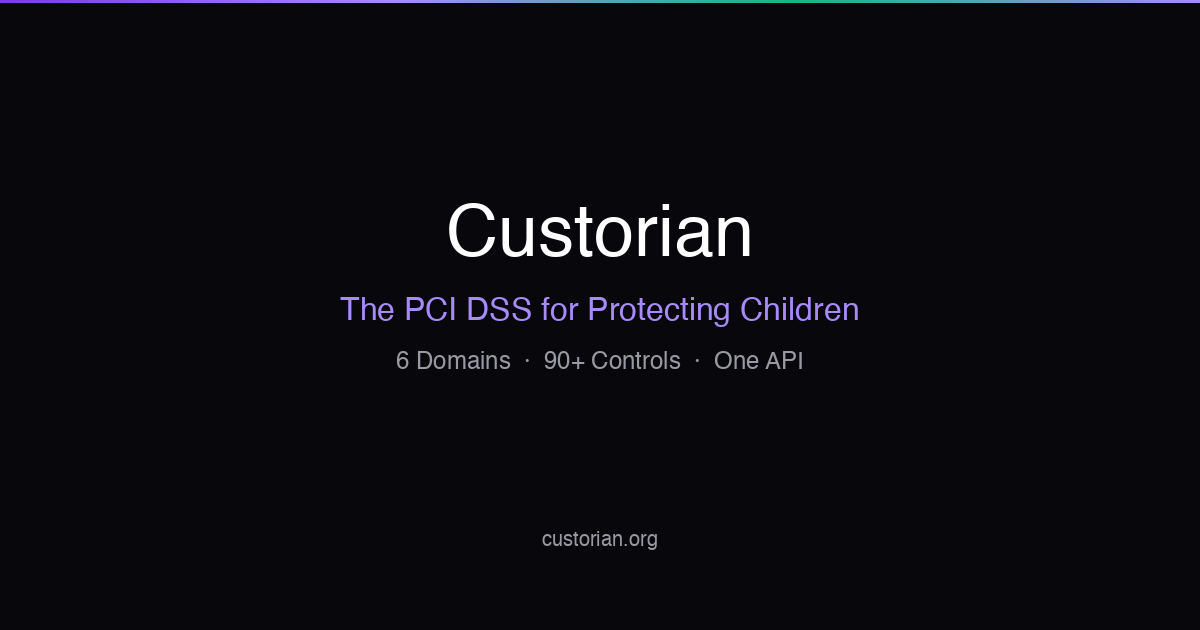
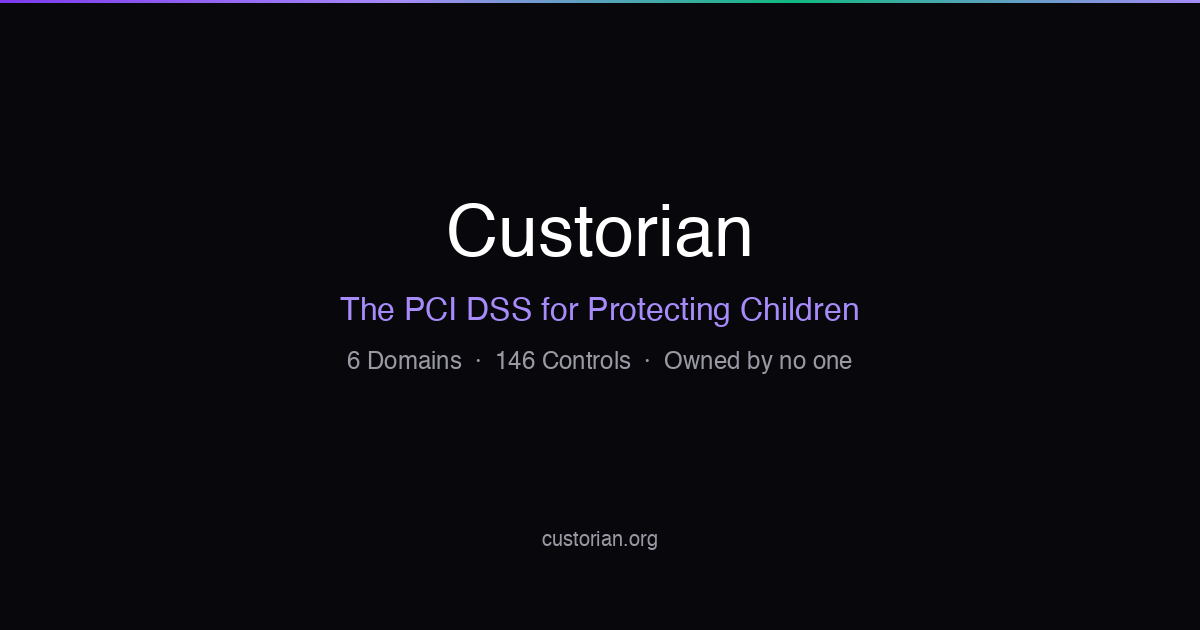
Update OG social card: 146 Controls (was '90+ Controls · One API')
Refresh the stale social-share card to match the standard: 146 controls,
and replace the outdated 'One API' positioning with the site's tagline
'Owned by no one'. Also point the generator's output_path at this repo
(was writing to a different local checkout).

Changed region(s): [[0.2775, 0.5429, 0.7092, 0.6032]]

diff --git a/generate_og_image.py b/generate_og_image.py
@@ -80,11 +80,11 @@ def draw_centered(y, text, font, fill):
 # Title at ~210, subtitle at ~300, detail at ~355, url at ~520
 draw_centered(200, "Custorian", font_title, WHITE)
 draw_centered(295, "The PCI DSS for Protecting Children", font_subtitle, LIGHT_PURPLE)
-draw_centered(350, "6 Domains  ·  90+ Controls  ·  One API", font_detail, DIM_TEXT)
+draw_centered(350, "6 Domains  ·  146 Controls  ·  Owned by no one", font_detail, DIM_TEXT)
 draw_centered(530, "custorian.org", font_url, DIM_TEXT)
 
 # --- Save ---
-output_path = "/Users/tanyabecheva/Documents/GitHub/custorian-website/og-image.png"
+output_path = "/Users/tanyabecheva/Desktop/Custorian/04_CODE/custorian-website/og-image.png"
 img.save(output_path, "PNG")
 print(f"OG image saved to {output_path}")
 print(f"Size: {WIDTH}x{HEIGHT}")
